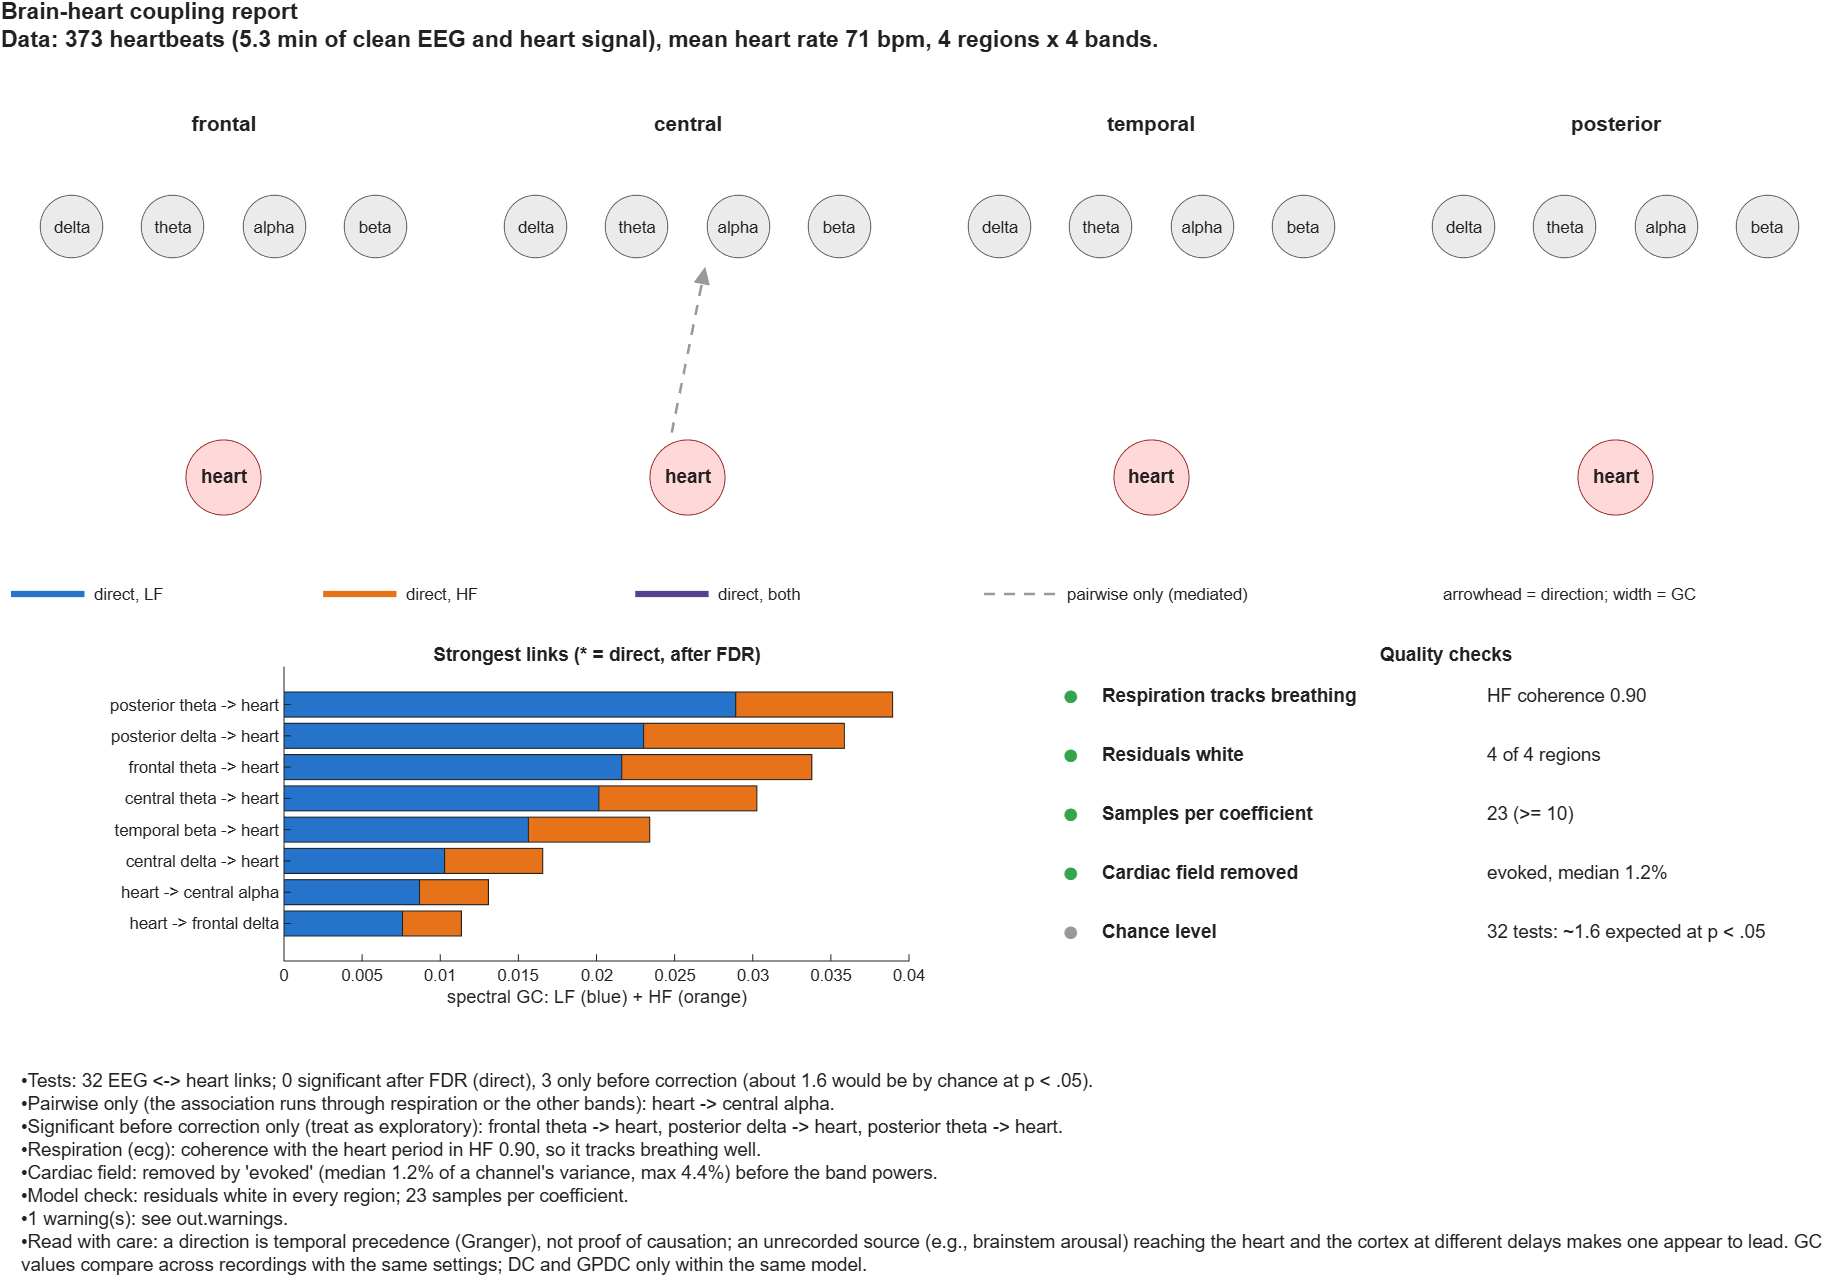
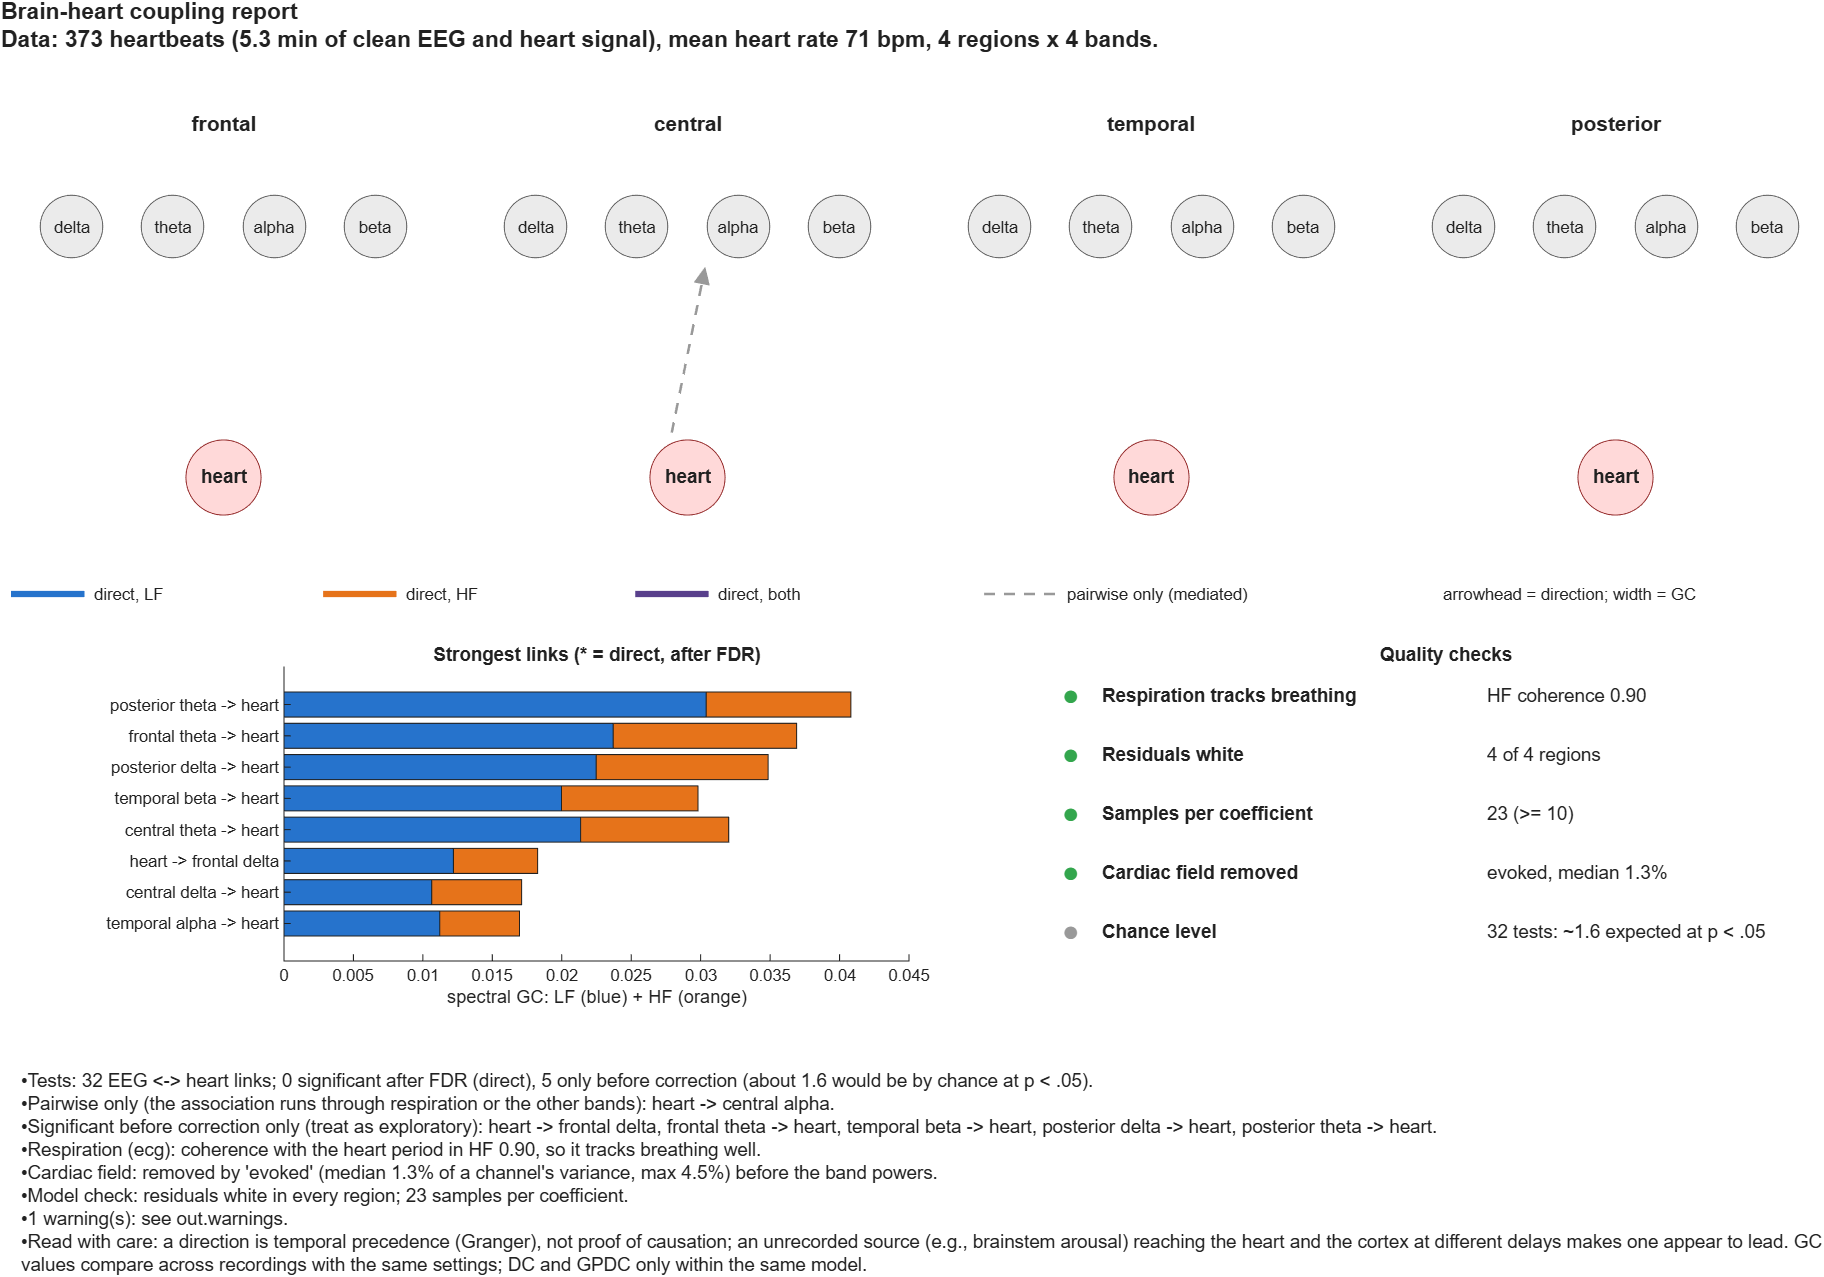
Coupling report figure regenerated with the robust F-tests

Changed region(s): [[0.2188, 0.5192, 0.5, 0.733], [0.2812, 0.8551, 0.7812, 0.8857], [0.0625, 0.5497, 0.1562, 0.733]]

diff --git a/docs/TODO.md b/docs/TODO.md
@@ -70,8 +70,6 @@ Scientific, may change results:
         test_coupling_engine/sim/stats and the ds003838 cohort on the merged code.
   - [ ] Label transfer entropy, time-reversed GC, DC/GPDC as exploratory in the README (TE
         rejected 10% heart -> alpha in simulation; the report uses the F-test and q only).
-  - [ ] Regenerate figures/coupling_report.png (make_readme_figures({'coupling'})): it still
-        shows p-values from the classical F-test.
   Still open:
   - [x] F-tests ~1-2 points liberal on real nulls: now HC3-robust with the degrees of freedom
         less the detrended runs (5.8% on both real nulls, was 6.1-7.2%; README section 3).
